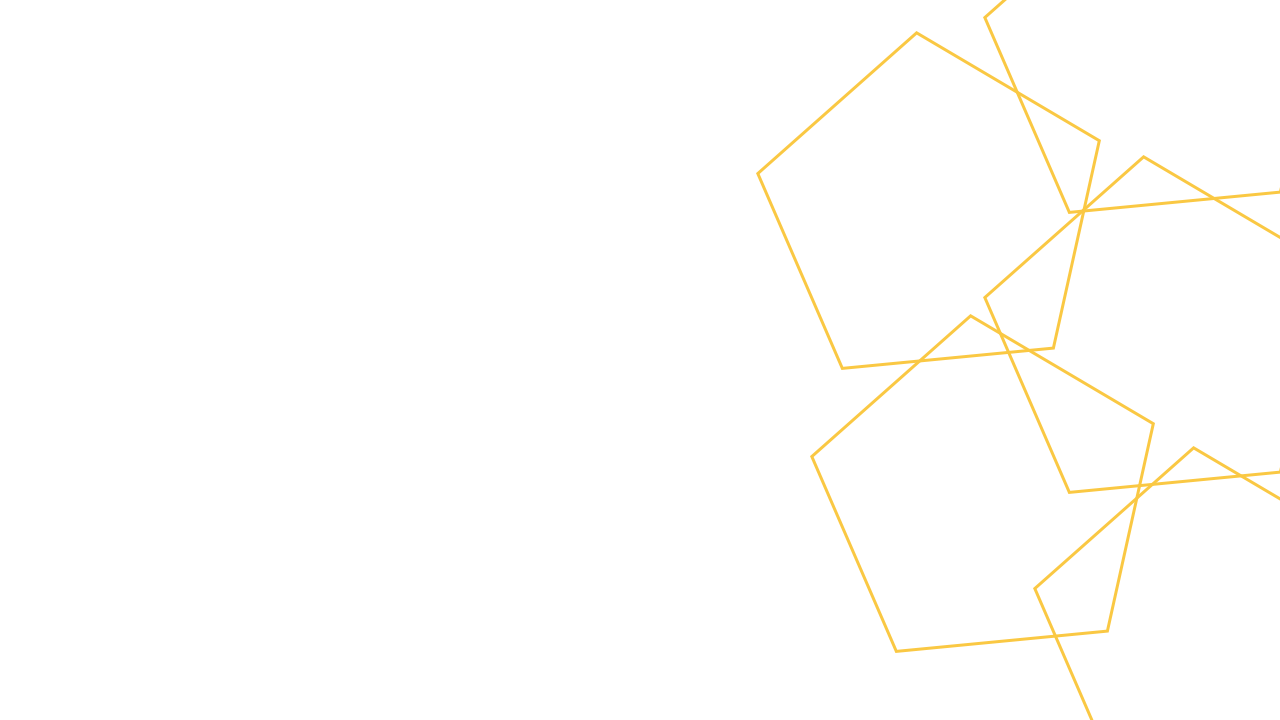
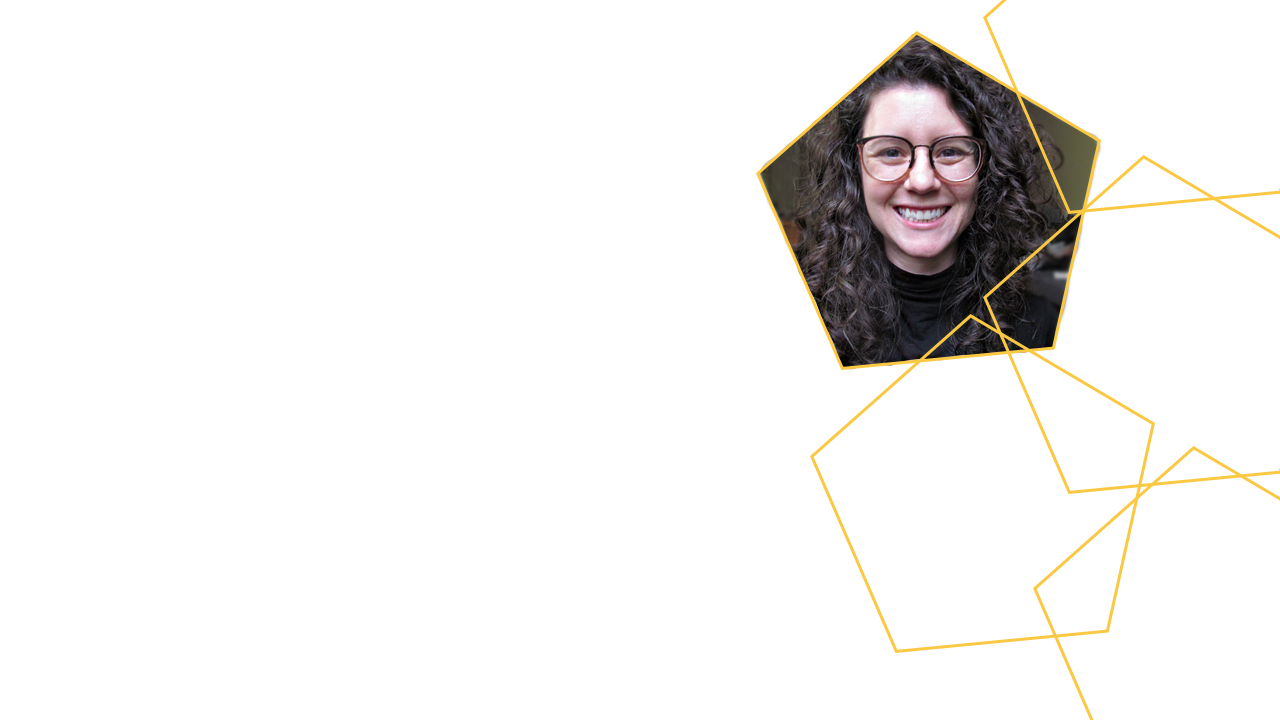
add profile image to background

Changed region(s): [[0.5938, 0.0611, 0.875, 0.5194]]

diff --git a/index.html b/index.html
@@ -26,10 +26,10 @@
 		<div class="col-md-7">
 			<h2>About<br><span class="name">Me</span>.</h2>
 			<p>I am a full stack developer currently located in London, Ontario.</p>
-			<p>I have a passion for inovation and creativity. I have worked on a multitude of intranet product websites built on top of Drupal, playing the bridge between the internal development team as well as clients to find the best solution.</p>
+			<p>I have a passion for inovation and creativity. I have worked on a multitude of intranet product websites built on top of Drupal, playing the bridge between the internal development team and clients to find the best solutions.</p>
 			<p>I attended the University of Windsor where I recieved my Bachelor's degree in Communications, Media & Film followed by a post-secondary certification Interactive Media Specialist from Fanshawe College.</p>
 			<p>I am also a bee, tree and tea enthusiast.</p>
-			<p><a href="https://www.linkedin.com/in/melissa-lajoie/"><em class="fab fa-linkedin" aria-hidden="true"></em></a> | <a href="mailto:lajoie.developer@gmail.com"><em class="fas fa-envelope" aria-hidden="true"></em></a></p>
+			<p><a href="https://www.linkedin.com/in/melissa-lajoie/" target="_blank"><em class="fab fa-linkedin" aria-hidden="true"></em></a> | <a href="mailto:lajoie.developer@gmail.com"><em class="fas fa-envelope" aria-hidden="true"></em></a></p>
 		</div>
 	</div>
 </section>
